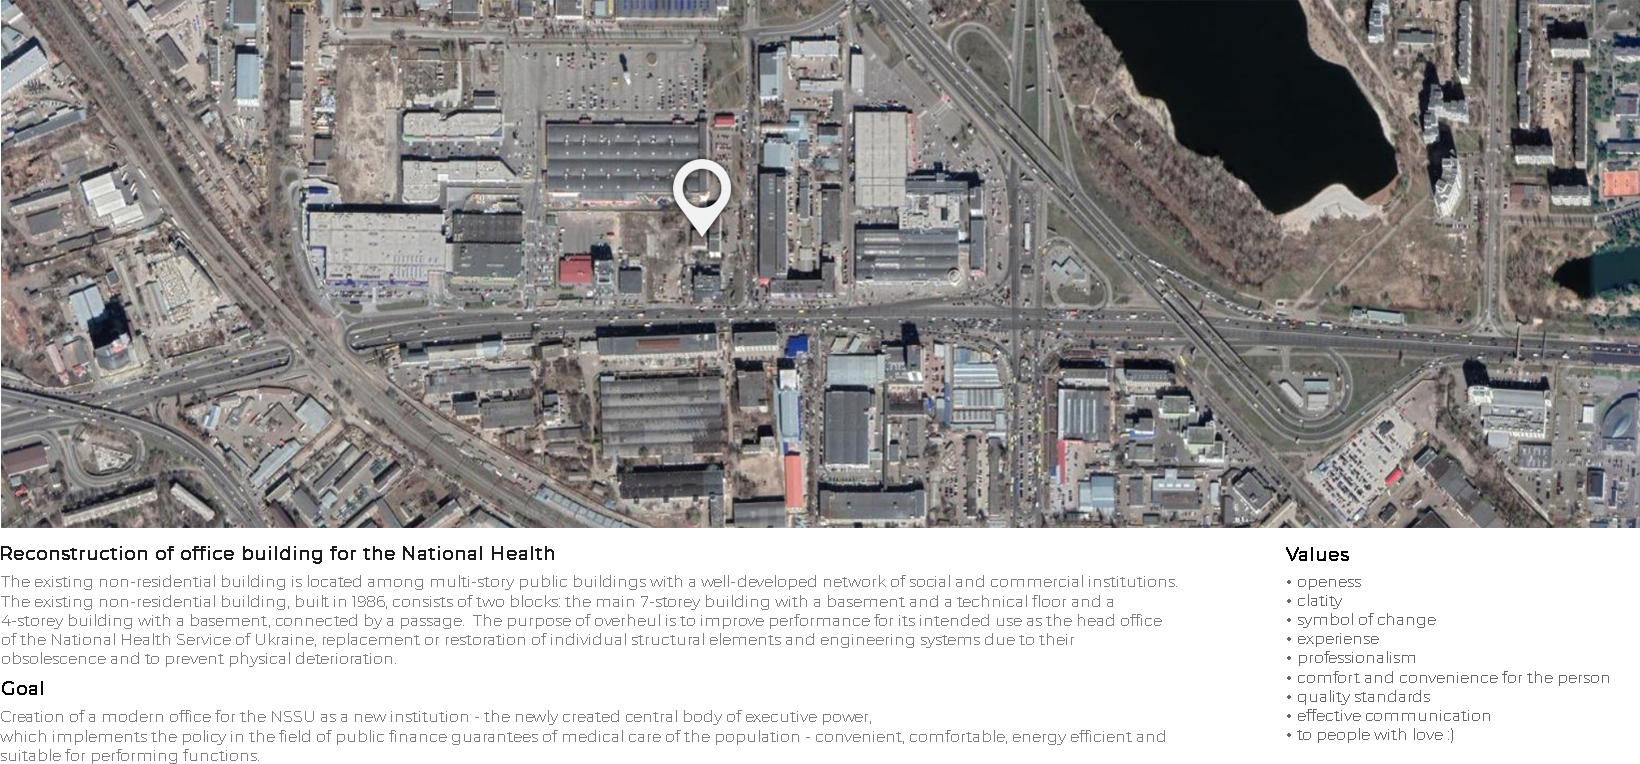
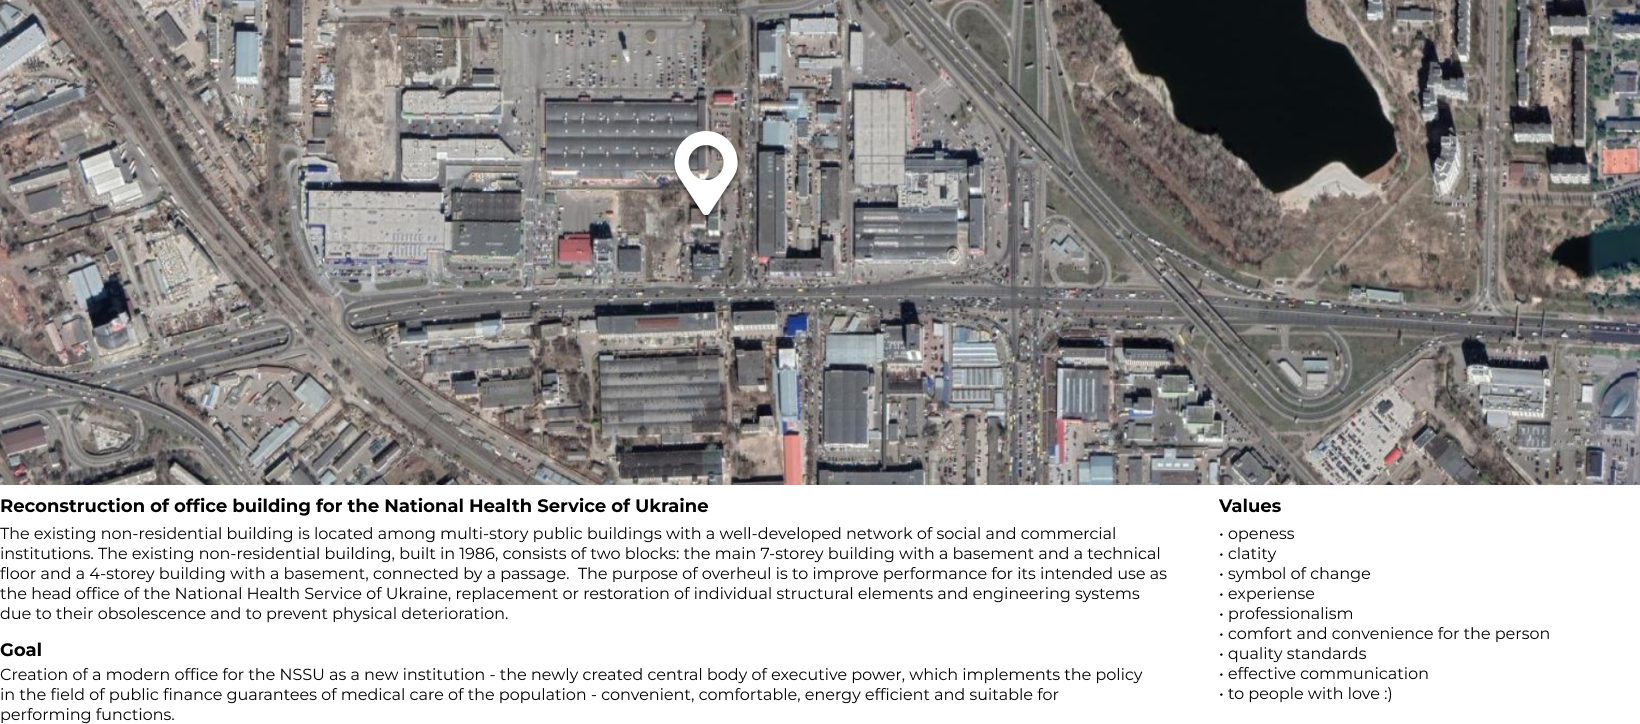
Add more projects in slider NSZU

diff --git a/each-projects-page/nszu/nszu.html b/each-projects-page/nszu/nszu.html
@@ -83,8 +83,8 @@
                                 <div class="image-slider__slide swiper-slide">
                                     <div class="image-slider__image">
                                         <div>
-                                            <img src="../../assets/pic/01_nszu/slider/1_2.jpg" alt="" >
-                                            <div class="photo-text">
+                                            <img src="../../assets/pic/01_nszu/slider/1_2.png" alt="" >
+                                            <!-- <div class="photo-text">
                                                 <div class="photo-text-left">
                                                     <h2 class="title"> Reconstruction of office building for the National Health </h2>
                                                     <p class="text"> The existing non-residential building is located among multi-story public buildings with a well-developed network of social and commercial institutions. The existing non-residential building, built in 1986, consists of two blocks: the main 7-storey building with a basement and a technical floor and a 4-storey building with a basement, connected by a passage.  The purpose of overheul is to improve performance for its intended use as the head office of the National Health Service of Ukraine, replacement or restoration of individual structural elements and engineering systems due to their obsolescence and to prevent physical deterioration. </p>
@@ -105,7 +105,7 @@
                                                         <li>to people with love :)</li>
                                                     </ul>
                                                 </div>
-                                            </div>
+                                            </div> -->
                                         </div>
                                     </div>                          
                                 </div>
@@ -119,31 +119,31 @@
                                         <img src="../../assets/pic/01_nszu/slider/1_4.png" alt="" >
                                     </div>                                
                                 </div>
-                                <!-- <div class="photo-bg">
-                                    <div class="img-bg">
+                                <div class="image-slider__slide swiper-slide">
+                                    <div class="image-slider__image">
                                         <img src="../../assets/pic/01_nszu/slider/1_5.png" alt="" >
                                     </div>                                
                                 </div>
-                                <div class="photo-bg">
-                                    <div class="img-bg">
+                                <div class="image-slider__slide swiper-slide">
+                                    <div class="image-slider__image">
                                         <img src="../../assets/pic/01_nszu/slider/1_6.png" alt="" >
                                     </div>                                
                                 </div>
-                                <div class="photo-bg">
-                                    <div class="img-bg">
+                                <div class="image-slider__slide swiper-slide">
+                                    <div class="image-slider__image">
                                         <img src="../../assets/pic/01_nszu/slider/1_7.png" alt="" >
                                     </div>                                
                                 </div>
-                                <div class="photo-bg">
-                                    <div class="img-bg">
+                                <div class="image-slider__slide swiper-slide">
+                                    <div class="image-slider__image">
                                         <img src="../../assets/pic/01_nszu/slider/1_8.png" alt="" >
                                     </div>                                
                                 </div>
-                                <div class="photo-bg">
-                                    <div class="img-bg">
+                                <div class="image-slider__slide swiper-slide">
+                                    <div class="image-slider__image">
                                         <img src="../../assets/pic/01_nszu/slider/1_9.png" alt="" >
                                     </div>                                
-                                </div> -->
+                                </div>
                                
                             </div> 
                           
@@ -154,7 +154,18 @@
                             
                             <div class="swiper-pagination"></div>
 
-
+                            <div class="icon-resize">
+                                <?xml version="1.0" encoding="iso-8859-1"?>
+                                <svg version="1.1" id="Capa_1" xmlns="http://www.w3.org/2000/svg" xmlns:xlink="http://www.w3.org/1999/xlink" x="0px" y="0px"
+                                viewBox="0 0 202.205 202.205" style="enable-background:new 0 0 202.205 202.205;" xml:space="preserve">
+                                    <g>
+                                        <polygon points="202.205,74.268 202.198,0 127.933,0.011 127.93,5.902 192.131,5.912 110.329,87.71 
+                                            114.498,91.876 196.3,10.078 196.293,74.268 		"/>
+                                        <polygon points="87.7,110.343 5.902,192.141 5.902,127.947 0,127.947 0,202.205 74.25,202.205 
+                                            74.268,196.314 10.067,196.304 91.862,114.505 		"/>
+                                    </g>
+                                </svg>
+                            </div>
 
                             <!-- <div class="slider__left">
                                 <div class="arrow-left">

diff --git a/each-projects-page/nszu/nszu-style.scss b/each-projects-page/nszu/nszu-style.scss
@@ -69,6 +69,7 @@
     max-width: 100%;
     // max-height: 832px;
     max-height: calc(100vh - 112px);
+    min-height: 100%;
     padding-bottom: 10px;
 }
 
@@ -84,7 +85,52 @@
     font-size: 24px;
     color: #252525;
     text-align: start;
+    width: fit-content;
+    background-color: $bg-color;
 }
+
+
+.icon-resize{
+    position: absolute;
+    bottom: 10px;
+    right: 1px;
+    z-index: 10;
+    background-color: $bg-color;
+    padding: 2px;
+    svg{
+        height: 28px;
+        cursor: pointer;
+        // stroke: #f51919;
+        stroke-width: 8px;
+        polygon{
+            fill: #383838;
+            // stroke-linejoin: round;
+            
+
+        }
+
+    }
+    svg:hover polygon{
+        fill: #000;
+        
+    }
+}
+
+
+
+.photo-text{
+    display: flex;
+    text-align: left;
+    .photo-text-left{
+        width: 85%;
+    }
+    .photo-text-right{
+        width: 25%;
+    }
+}
+
+
+
 
 
 

diff --git a/each-projects-page/nszu/nszu-style.css b/each-projects-page/nszu/nszu-style.css
@@ -17,6 +17,7 @@
 .image-slider__image img {
   max-width: 100%;
   max-height: calc(100vh - 112px);
+  min-height: 100%;
   padding-bottom: 10px;
 }
 
@@ -32,4 +33,41 @@
   font-size: 24px;
   color: #252525;
   text-align: start;
+  width: -webkit-fit-content;
+  width: -moz-fit-content;
+  width: fit-content;
+  background-color: #F2F2F2;
+}
+
+.icon-resize {
+  position: absolute;
+  bottom: 10px;
+  right: 1px;
+  z-index: 10;
+  background-color: #F2F2F2;
+  padding: 2px;
+}
+.icon-resize svg {
+  height: 28px;
+  cursor: pointer;
+  stroke-width: 8px;
+}
+.icon-resize svg polygon {
+  fill: #383838;
+}
+.icon-resize svg:hover polygon {
+  fill: #000;
+}
+
+.photo-text {
+  display: -webkit-box;
+  display: -ms-flexbox;
+  display: flex;
+  text-align: left;
+}
+.photo-text .photo-text-left {
+  width: 85%;
+}
+.photo-text .photo-text-right {
+  width: 25%;
 }
